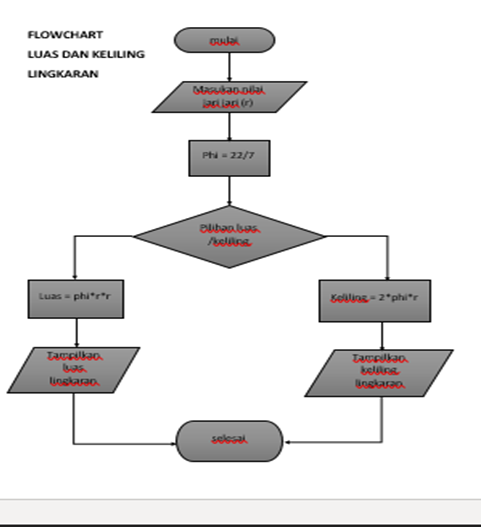
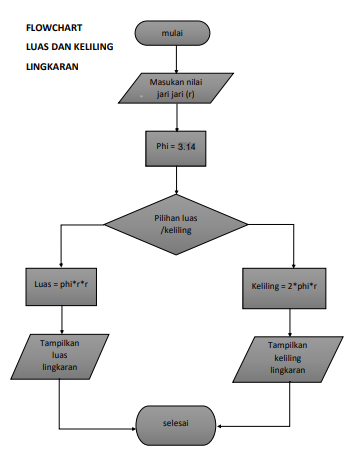
upload file

Changed region(s): [[0.0, 0.0312, 1.0, 1.0], [0.0606, 0.0312, 0.3333, 0.1559]]

diff --git a/tugas.py b/tugas.py
@@ -3,9 +3,9 @@
 print("program menghitung luas dan keliling lingkaran")
 r = int(input("masukan jari jari = "))
 
-phi = 22/7
+phi = 3.14
 luas = phi*r*r
 kel = 2*phi*r
 
-print("luas lingkaran adalah  =", luas)
-print("keliling lingkaran adalah =", kel)
+print ("Luas Lingkaran \t= ",format(luas,'.2f'))
+print ("Keliling Lingkaran \t= ",format(kel,'.2f'))

diff --git a/README.md b/README.md
@@ -1,32 +1,48 @@
-## buat repo baru
-![img](screenshot/repo.png)
+# tugas tipe data variasi dan operasi
 
-## clone repo ke file menggunakan git desktop
-![img](screenshot/clone.png)
+## tugas
 
-## hasil clone pada file
-![img](screenshot/file.png)
+![img](screenshot/tugas.png)
 
+## flowchart 
 
-## masuk ke README.md menggunakan vscode
-![img](screenshot/vscode.png)
+untuk menentukan luas dan keliling lingkaran dapat
+menggunakan langkah langkah sebagai berikut
 
-## isi README.md dengan langkah langkah pembuatannya
-![img](screenshot/readme.png)
+![img](screenshot/flowchart.png)
 
-## membuat flowchart
-![img](screenshot/FLOWCHART.png)
+# menghitung luas dan keliling lingkaran 
 
-## membuat operasi python
-![img](screenshot/operasi.png)
+## code untuk menghitung
 
-## output python
+    print("program menghitung luas dan keliling lingkaran")
+    r = int(input("masukan jari jari = "))
+
+    phi = 3.14
+    luas = phi*r*r
+    kel = 2*phi*r
+
+    print ("Luas Lingkaran \t= ",format(luas,'.2f'))
+    print ("Keliling Lingkaran \t= ",format(kel,'.2f'))
+
+ssss## rumus menghitung
+
+berikut adalah rumus untuk menghitung luas dan keliling linngkaran
+
+![img](screenshot/rumus.png)
+
+    nilai phi yang digunakan adalah 14 
+    dan r adalah jari jari lingkaran
+
+## output
+
+ini adalah contoh output jika dimasukan jari jari dengan nilai 49
+
 ![img](screenshot/output.png)
 
-## melakukan push README dengan git desktop
-![img](screenshot/push.png)
+## penjelasan
+untuk mengambil 2 angka pecahan saja kita pakai fungsi format *'.2f'* seperti berikut:
 
-## cek repo apakah sudah ter push
-![img](screenshot/cek.png)
+![img](screenshot/kesimpulan.png)
 
-## finish
+dengan rumus seperti diatas dapat mengambil kesimpulan 2 angka dibelakang titik
